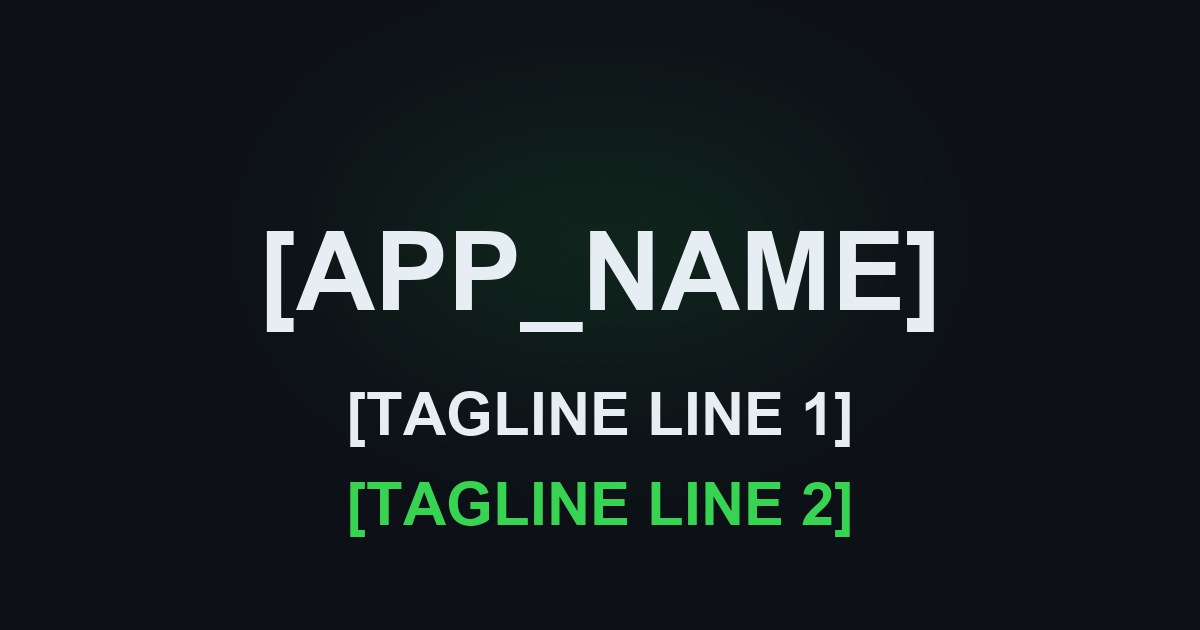
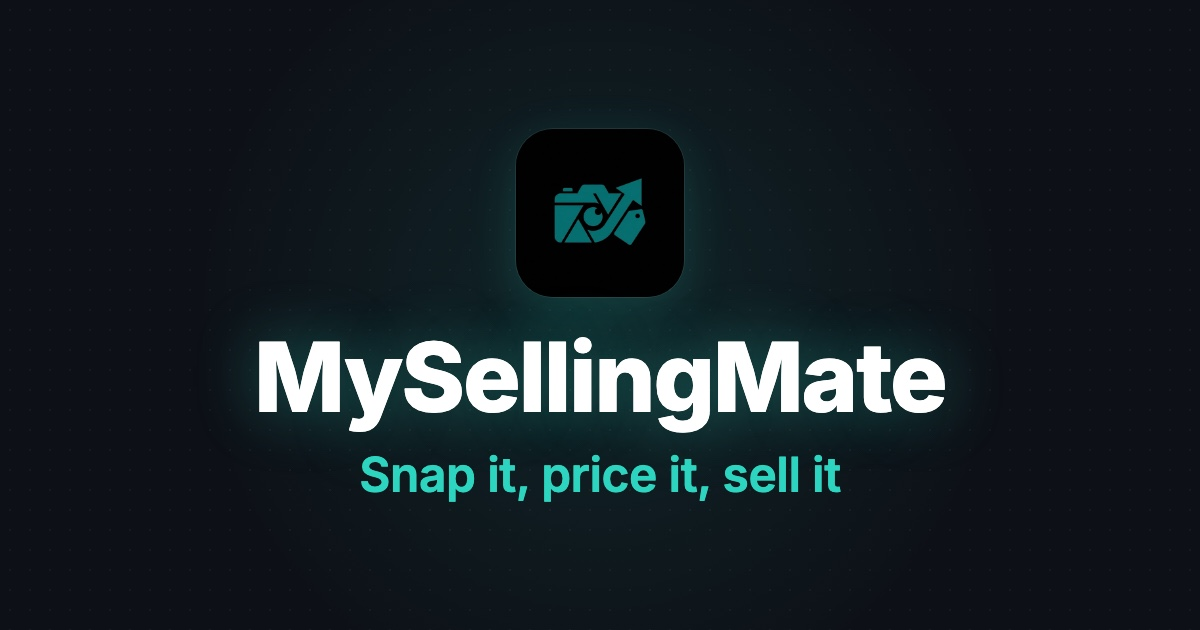
Real social card replacing the template placeholder; template is the source

Changed region(s): [[0.2158, 0.181, 0.8017, 0.8746]]

diff --git a/tools/og-card-template.html b/tools/og-card-template.html
@@ -2,50 +2,74 @@
 <html>
 <head>
 <meta charset="utf-8" />
-<title>OG card template — 1200x630</title>
+<title>OG card template (1200x630)</title>
+<link rel="preconnect" href="https://fonts.googleapis.com" />
+<link rel="preconnect" href="https://fonts.gstatic.com" crossorigin />
+<link href="https://fonts.googleapis.com/css2?family=Inter:wght@600;800&display=swap" rel="stylesheet" />
 <style>
-  /* ── Edit these three values, then screenshot the .card at 1200x630 ── */
+  /* SOURCE for public/og-image.jpg. Edit here, then re-render (see bottom). */
+  /* Colors match app/globals.css: --brand-bg and --brand-accent. */
   :root {
-    --brand-dark: #0D1117;
+    --brand-dark: #0d1117;
     --brand-accent: #2dd4bf;
   }
   body { margin: 0; padding: 0; }
   .card {
     width: 1200px; height: 630px;
+    box-sizing: border-box;
     background-color: var(--brand-dark);
     background-image:
-      radial-gradient(circle at center, rgba(45, 212, 191, 0.08) 0%, transparent 60%),
+      radial-gradient(circle at center, rgba(45, 212, 191, 0.10) 0%, transparent 60%),
       radial-gradient(circle, rgba(255,255,255,0.04) 1px, transparent 1px);
     background-size: cover, 20px 20px;
     display: flex; flex-direction: column;
     justify-content: center; align-items: center;
-    font-family: -apple-system, system-ui, sans-serif;
-    font-weight: 800;
+    font-family: Inter, -apple-system, system-ui, sans-serif;
     text-align: center;
   }
-  .wordmark { font-size: 110px; color: white; margin-bottom: 24px; text-shadow: 0 0 60px rgba(45, 212, 191, 0.4); }
-  .line { font-size: 64px; line-height: 1.1; }
-  .white { color: white; }
-  .accent { color: var(--brand-accent); }
+  /* All content stays inside the central ~800px: LinkedIn mobile crops the sides. */
+  .icon {
+    width: 168px; height: 168px;
+    border-radius: 37px; /* iOS squircle proportion (~22%) */
+    box-shadow: 0 0 0 1px rgba(255,255,255,0.08), 0 12px 48px rgba(45, 212, 191, 0.18);
+    margin-bottom: 32px;
+  }
+  .wordmark {
+    font-size: 96px; font-weight: 800; letter-spacing: -0.02em;
+    color: white; line-height: 1;
+    text-shadow: 0 0 60px rgba(45, 212, 191, 0.35);
+  }
+  .tagline {
+    margin-top: 24px;
+    font-size: 48px; font-weight: 600; letter-spacing: -0.01em;
+    color: var(--brand-accent); line-height: 1.1;
+  }
 </style>
 </head>
 <body>
   <div class="card">
+    <img class="icon" src="../public/favicon-512.png" alt="" />
     <div class="wordmark">MySellingMate</div>
-    <div class="line white">[TAGLINE_LINE_1]</div>
-    <div class="line accent">[TAGLINE_LINE_2]</div>
+    <div class="tagline">Snap it, price it, sell it</div>
   </div>
 </body>
 </html>
 
 <!--
-HOW TO GENERATE public/og-image.jpg FROM THIS TEMPLATE
-1. Edit MySellingMate, [TAGLINE_LINE_1], [TAGLINE_LINE_2] and the two CSS color vars.
-2. Open this file in Chrome.
-3. DevTools (Cmd+Opt+I) > toggle device toolbar > set a responsive viewport to 1200 x 630.
-4. Cmd+Shift+P > "Capture full size screenshot" (saves a PNG).
-5. Convert to JPG (WhatsApp rejects WebP for previews):
-     sips -s format jpeg screenshot.png --out og-image.jpg
-   (or: cwebp is NOT used here — OG must be JPG/PNG.)
-6. Move to public/og-image.jpg. Keep it under ~200KB.
+THIS FILE IS THE SOURCE. public/og-image.jpg IS BUILD OUTPUT.
+Never edit the JPG by hand; change this file and re-render. Commit both together.
+
+Copy rule: no em or en dashes in the card text. The DASHES check covers
+messages/*.json only, not text baked into the image.
+
+Render (headless Chrome or Chromium, from the repo root). CHROME is any Chrome
+binary, e.g. "/Applications/Google Chrome.app/Contents/MacOS/Google Chrome" or
+Playwright's "Google Chrome for Testing" under ~/Library/Caches/ms-playwright:
+  "$CHROME" \
+    --headless --disable-gpu --hide-scrollbars --force-device-scale-factor=1 \
+    --window-size=1200,630 --virtual-time-budget=5000 \
+    --screenshot=/tmp/og.png "file://$PWD/tools/og-card-template.html"
+  sips -s format jpeg -s formatOptions 90 /tmp/og.png --out public/og-image.jpg
+
+Output must be 1200x630, JPG or PNG (never WebP: WhatsApp drops it), under ~200KB.
 -->

diff --git a/app/[locale]/layout.tsx b/app/[locale]/layout.tsx
@@ -48,7 +48,7 @@ export async function generateMetadata({
       description: t("ogDescription"),
       siteName: t("title"),
       locale: ogLocales[locale as Locale] ?? "en_US",
-      images: [{ url: OG_IMAGE, width: 1200, height: 630, alt: "Social card" }],
+      images: [{ url: OG_IMAGE, width: 1200, height: 630, alt: "MySellingMate: snap it, price it, sell it" }],
     },
     twitter: {
       card: "summary_large_image",

diff --git a/README.md b/README.md
@@ -94,9 +94,9 @@ app/
                       FeatureGrid, LanguageGrid, HowItWorks, Footer, GridBackground
 public/
   screenshots/        Simulator captures used by AppPreview
-  og-image.jpg        1200×630 social card
+  og-image.jpg        1200×630 social card (build output, do not edit)
 tools/
-  og-card-template.html   editable 1200×630 card to screenshot for the OG image
+  og-card-template.html   source of public/og-image.jpg (see "Social card")
 ```
 
 ### Why no middleware?
@@ -187,17 +187,44 @@ constraint is not the glyph's size but the width of the gaps **inside** it:
   same mark, removing every trace of ringing changed the 16px render by at most
   2/255. Check detail density first.
 
+### Social card (OG image)
+
+**`tools/og-card-template.html` is the source. `public/og-image.jpg` is build
+output.** Never edit the JPG by hand, and always commit the two together. The
+first card shipped as the raw template placeholder (`[APP_NAME]`) for months
+because the JPG had drifted from its template and nothing caught it.
+
+One English card serves all four locales. The title and description beside it
+are already localised per locale.
+
+To regenerate, edit the template, then from the repo root:
+
+```bash
+CHROME="/Applications/Google Chrome.app/Contents/MacOS/Google Chrome"  # or Playwright's Chrome for Testing
+"$CHROME" --headless --disable-gpu --hide-scrollbars --force-device-scale-factor=1 \
+  --window-size=1200,630 --virtual-time-budget=5000 \
+  --screenshot=/tmp/og.png "file://$PWD/tools/og-card-template.html"
+sips -s format jpeg -s formatOptions 90 /tmp/og.png --out public/og-image.jpg
+```
+
+Then look at the JPG before committing:
+
+- **1200×630**, **JPG or PNG, never WebP** (WhatsApp shows no preview for WebP),
+  under 200KB.
+- **No em or en dashes** in the card copy. The `DASHES` check covers
+  `messages/*.json`, not text baked into an image.
+- Content inside the central ~800px, since LinkedIn crops the sides on mobile.
+- `og:image` stays absolute (`OG_IMAGE` in `i18n/metadata.ts`, built from
+  `SITE_URL`). Check it in `out/en/index.html` after `npm run build`.
+
+After deploying a new card, flush caches with the
+[LinkedIn Post Inspector](https://www.linkedin.com/post-inspector/) and the
+[Facebook Sharing Debugger](https://developers.facebook.com/tools/debug/), which
+also refreshes what WhatsApp reads.
+
 ### Everything else
 
 - **AppPreview** renders three real Simulator screenshots from `public/screenshots/`
   as a phone row — the center phone (the result screen) is the payoff and sits larger.
-- **OG card** must be **JPG or PNG, never WebP** — WhatsApp shows no preview at all
-  for WebP, and none if `og:image` is missing. 1200×630, under 200KB, absolute URL
-  (handled via `SITE_URL`). Regenerate from `tools/og-card-template.html`: open in
-  Chrome, DevTools device toolbar at 1200×630, "Capture full size screenshot",
-  then `sips -s format jpeg shot.png --out og-image.jpg`.
-- After a deploy that changes the card, flush caches with the
-  [Facebook Sharing Debugger](https://developers.facebook.com/tools/debug/) — it
-  also refreshes what WhatsApp reads.
 - Compress before committing: promo/hero images under 500KB, OG under 200KB.
   Design sources (`.psd`, `.fig`, oversized PNGs) are gitignored — commit exports.
